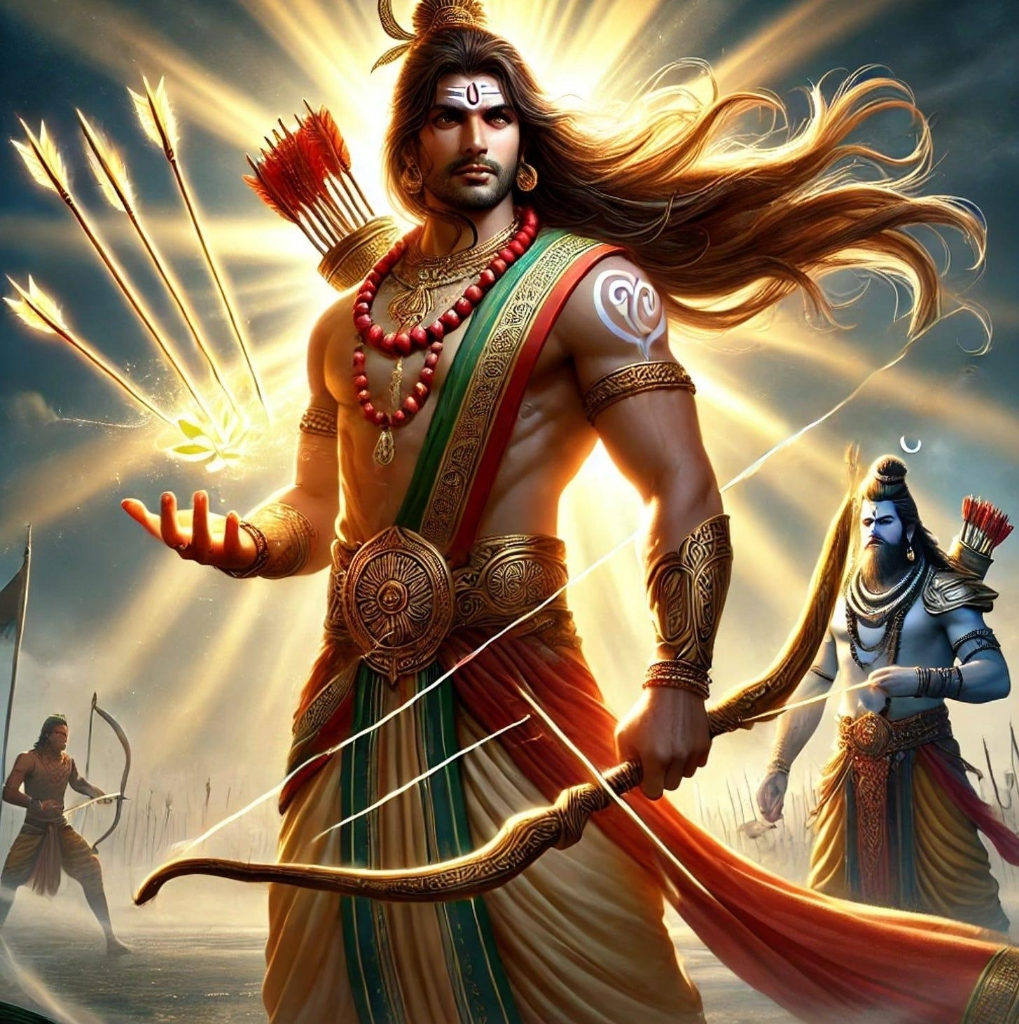
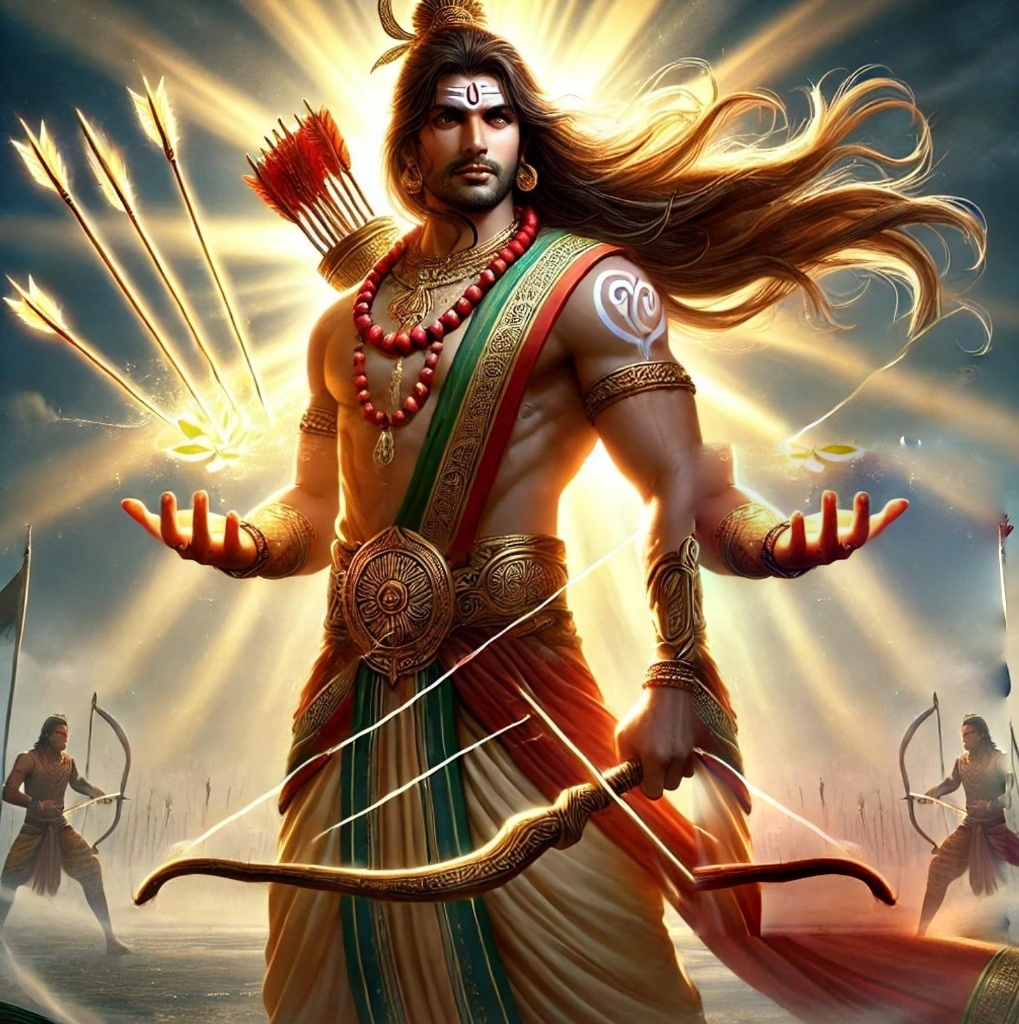
fix(barbarik): remove blue warrior, remove separate 3D chakra and arrow overlays, add cinematic foot leaf scene, fix 9:16 character framing

Changed region(s): [[0.6693, 0.4375, 1.0, 0.9375]]

diff --git a/remotion/scenes/BarbarikFull3DScene.tsx b/remotion/scenes/BarbarikFull3DScene.tsx
@@ -10,8 +10,6 @@ import {
 } from 'remotion';
 import { ThreeCanvasScene } from '../components/ThreeCanvasScene';
 import { CinematicParallaxCard } from '../components/CinematicParallaxCard';
-import { SudarshanChakra3D } from '../components/SudarshanChakra3D';
-import { TeenBaan3D } from '../components/TeenBaan3D';
 import { FloatingEmbers3D } from '../components/FloatingEmbers3D';
 import { WordTiming } from '../types';
 import * as THREE from 'three';
@@ -113,14 +111,9 @@ export const BarbarikFull3DScene: React.FC<BarbarikFull3DSceneProps> = ({
           cameraMotion="pushIn"
           isLandscape={isLandscape}
           focusPoint={{ x: 50, y: 35 }}
+          fitMode={isLandscape ? undefined : 'contain-scene'}
         >
           <ThreeCanvasScene backgroundColor="transparent" fogColor="" shadows={false}>
-            {/* Real 3D Teen Baan glowing above Barbarik's open palm */}
-            <TeenBaan3D
-              position={[isLandscape ? -0.85 : -0.72, 0.42, 0]}
-              scale={isLandscape ? 0.72 : 0.85}
-              glowIntensity={4.2}
-            />
             {/* Drifting golden embers in true 3D space */}
             <FloatingEmbers3D count={35} color="#FBBF24" />
           </ThreeCanvasScene>
@@ -134,7 +127,8 @@ export const BarbarikFull3DScene: React.FC<BarbarikFull3DSceneProps> = ({
           durationInFrames={145}
           cameraMotion="heroZoom"
           isLandscape={isLandscape}
-          focusPoint={{ x: 48, y: 28 }}
+          focusPoint={{ x: 50, y: 30 }}
+          fitMode={isLandscape ? undefined : 'contain-scene'}
         >
           <ThreeCanvasScene backgroundColor="transparent" fogColor="" shadows={false}>
             <FloatingEmbers3D count={30} color="#FDE047" speedMultiplier={1.2} />
@@ -150,9 +144,9 @@ export const BarbarikFull3DScene: React.FC<BarbarikFull3DSceneProps> = ({
           cameraMotion="craneUp"
           isLandscape={isLandscape}
           focusPoint={{ x: 50, y: 40 }}
+          fitMode={isLandscape ? 'contain-scene' : 'cover'}
         >
           <ThreeCanvasScene backgroundColor="transparent" fogColor="" shadows={false}>
-            <TeenBaan3D position={[0, 0.15, 0]} scale={1.05} glowIntensity={4.5} />
             <FloatingEmbers3D count={40} color="#FBBF24" />
           </ThreeCanvasScene>
         </CinematicParallaxCard>
@@ -165,7 +159,8 @@ export const BarbarikFull3DScene: React.FC<BarbarikFull3DSceneProps> = ({
           durationInFrames={200}
           cameraMotion="panRight"
           isLandscape={isLandscape}
-          focusPoint={{ x: 28, y: 55 }}
+          focusPoint={{ x: 50, y: 55 }}
+          fitMode={isLandscape ? undefined : 'contain-scene'}
         >
           <ThreeCanvasScene backgroundColor="transparent" fogColor="" shadows={false}>
             <FloatingEmbers3D count={25} color="#FEF08A" speedMultiplier={0.8} />
@@ -180,7 +175,8 @@ export const BarbarikFull3DScene: React.FC<BarbarikFull3DSceneProps> = ({
           durationInFrames={165}
           cameraMotion="pushIn"
           isLandscape={isLandscape}
-          focusPoint={{ x: 52, y: 35 }}
+          focusPoint={{ x: 50, y: 40 }}
+          fitMode={isLandscape ? undefined : 'contain-scene'}
         >
           <ThreeCanvasScene backgroundColor="transparent" fogColor="" shadows={false}>
             <FloatingEmbers3D count={30} color="#FBBF24" />
@@ -195,7 +191,8 @@ export const BarbarikFull3DScene: React.FC<BarbarikFull3DSceneProps> = ({
           durationInFrames={167}
           cameraMotion="craneUp"
           isLandscape={isLandscape}
-          focusPoint={{ x: 55, y: 30 }}
+          focusPoint={{ x: 50, y: 50 }}
+          fitMode={isLandscape ? undefined : 'contain-scene'}
         >
           <ThreeCanvasScene backgroundColor="transparent" fogColor="" shadows={false}>
             {/* Divine Arrow streak particles */}
@@ -206,82 +203,31 @@ export const BarbarikFull3DScene: React.FC<BarbarikFull3DSceneProps> = ({
 
       {/* SHOT 7: THE HIDDEN LEAF BENEATH KRISHNA'S FOOT (41.15 – 44.85s, 111f) */}
       <Sequence from={1235} durationInFrames={111}>
-        <div style={{ position: 'relative', width: '100%', height: '100%' }}>
-          <ThreeCanvasScene
-            backgroundColor="#0B0D18"
-            fogColor="#0B0D18"
-            fogNear={4}
-            fogFar={18}
-            shadows={true}
-          >
-            {/* Ground earth */}
-            <mesh receiveShadow position={[0, 0, 0]} rotation={[-Math.PI / 2, 0, 0]}>
-              <planeGeometry args={[20, 20]} />
-              <meshStandardMaterial color="#2B1E13" roughness={0.9} />
-            </mesh>
-
-            {/* Krishna's Lotus Foot on Ground */}
-            <group position={[0, 0.08, 0]}>
-              <mesh castShadow position={[0, 0.06, 0]}>
-                <boxGeometry args={[0.26, 0.16, 0.52]} />
-                <meshStandardMaterial color="#38BDF8" roughness={0.5} />
-              </mesh>
-              {/* Golden Anklet */}
-              <mesh position={[0, 0.14, -0.1]}>
-                <torusGeometry args={[0.14, 0.022, 8, 16]} />
-                <meshStandardMaterial color="#FBBF24" metalness={0.9} roughness={0.1} />
-              </mesh>
-            </group>
-
-            {/* The Single Green Peepal Leaf Under Foot */}
-            <mesh position={[0, 0.02, 0.18]} rotation={[-Math.PI / 2, 0, 0.15]}>
-              <planeGeometry args={[0.25, 0.36]} />
-              <meshStandardMaterial color="#16A34A" roughness={0.5} />
-            </mesh>
-
-            {/* Divine Golden Arrow Hovering & Vibrating Directly Above Foot */}
-            <group position={[0, 0.68 + Math.sin(frame * 1.5) * 0.025, 0.18]}>
-              <mesh>
-                <cylinderGeometry args={[0.016, 0.016, 0.85, 8]} />
-                <meshStandardMaterial color="#FDE047" metalness={0.9} />
-              </mesh>
-              <mesh position={[0, -0.44, 0]} rotation={[Math.PI, 0, 0]}>
-                <coneGeometry args={[0.06, 0.2, 8]} />
-                <meshStandardMaterial
-                  color="#FEF08A"
-                  emissive="#FBBF24"
-                  emissiveIntensity={5.5}
-                />
-              </mesh>
-              {/* Pulsing Shockwave Light Ring */}
-              <mesh position={[0, -0.42, 0]} rotation={[Math.PI / 2, 0, 0]}>
-                <ringGeometry args={[0.16, 0.22, 24]} />
-                <meshBasicMaterial color="#FBBF24" side={THREE.DoubleSide} />
-              </mesh>
-              <pointLight position={[0, -0.44, 0]} intensity={4.5} distance={7} color="#FBBF24" />
-            </group>
-
-            <FloatingEmbers3D count={25} color="#FBBF24" />
+        <CinematicParallaxCard
+          imageSrc={staticFile('barbarik/krishna_foot_leaf_arrow.jpg')}
+          durationInFrames={111}
+          cameraMotion="pushIn"
+          isLandscape={isLandscape}
+          focusPoint={{ x: 50, y: 50 }}
+          fitMode={isLandscape ? 'contain-scene' : 'cover'}
+        >
+          <ThreeCanvasScene backgroundColor="transparent" fogColor="" shadows={false}>
+            <FloatingEmbers3D count={35} color="#FBBF24" speedMultiplier={1.4} />
           </ThreeCanvasScene>
-        </div>
+        </CinematicParallaxCard>
       </Sequence>
 
-      {/* SHOT 8: KRISHNA'S SUDARSHAN CHAKRA & DIVINE DIALOGUE (44.85 – 53.62s, 263f) */}
+      {/* SHOT 8: KRISHNA & BARBARIK DIALOGUE (44.85 – 53.62s, 263f) */}
       <Sequence from={1346} durationInFrames={263}>
         <CinematicParallaxCard
           imageSrc={staticFile('barbarik/krishna_talk_perfect_clean.png')}
           durationInFrames={263}
           cameraMotion="pushIn"
           isLandscape={isLandscape}
-          focusPoint={{ x: 42, y: 40 }}
+          focusPoint={{ x: 50, y: 45 }}
+          fitMode={isLandscape ? undefined : 'contain-scene'}
         >
           <ThreeCanvasScene backgroundColor="transparent" fogColor="" shadows={false}>
-            {/* 🪓 SUDARSHAN CHAKRA SPINS RIGHT ABOVE KRISHNA'S RAISED HAND (NO TRISHUL!) 🪓 */}
-            <SudarshanChakra3D
-              position={[isLandscape ? -0.84 : -0.66, 0.44, 0]}
-              scale={isLandscape ? 0.65 : 0.78}
-              rotationSpeed={0.16}
-            />
             <FloatingEmbers3D count={40} color="#FBBF24" />
           </ThreeCanvasScene>
         </CinematicParallaxCard>
@@ -294,7 +240,8 @@ export const BarbarikFull3DScene: React.FC<BarbarikFull3DSceneProps> = ({
           durationInFrames={302}
           cameraMotion="pullBack"
           isLandscape={isLandscape}
-          focusPoint={{ x: 52, y: 45 }}
+          focusPoint={{ x: 50, y: 50 }}
+          fitMode={isLandscape ? undefined : 'contain-scene'}
         >
           <ThreeCanvasScene backgroundColor="transparent" fogColor="" shadows={false}>
             <FloatingEmbers3D count={45} color="#FBBF24" speedMultiplier={0.9} />
@@ -307,9 +254,10 @@ export const BarbarikFull3DScene: React.FC<BarbarikFull3DSceneProps> = ({
         <CinematicParallaxCard
           imageSrc={staticFile('barbarik/khatu_shyam_divine.png')}
           durationInFrames={193}
-          cameraMotion="craneUp"
+          cameraMotion="heroZoom"
           isLandscape={isLandscape}
-          focusPoint={{ x: 50, y: 35 }}
+          focusPoint={{ x: 50, y: 40 }}
+          fitMode={isLandscape ? undefined : 'contain-scene'}
         >
           <ThreeCanvasScene backgroundColor="transparent" fogColor="" shadows={false}>
             <FloatingEmbers3D count={50} color="#FEF08A" speedMultiplier={1.1} />

diff --git a/remotion/components/CinematicParallaxCard.tsx b/remotion/components/CinematicParallaxCard.tsx
@@ -9,6 +9,7 @@ export interface CinematicParallaxCardProps {
   children?: React.ReactNode;
   vignetteIntensity?: number;
   focusPoint?: { x: number; y: number }; // 0..100 %
+  fitMode?: 'cover' | 'contain-scene';
 }
 
 export const CinematicParallaxCard: React.FC<CinematicParallaxCardProps> = ({
@@ -19,6 +20,7 @@ export const CinematicParallaxCard: React.FC<CinematicParallaxCardProps> = ({
   children,
   vignetteIntensity = 0.45,
   focusPoint = { x: 50, y: 50 },
+  fitMode,
 }) => {
   const frame = useCurrentFrame();
   const progress = Math.min(1, Math.max(0, frame / Math.max(1, durationInFrames)));
@@ -27,12 +29,16 @@ export const CinematicParallaxCard: React.FC<CinematicParallaxCardProps> = ({
   const ease = 0.5 - 0.5 * Math.cos(progress * Math.PI);
 
   // Natural human handheld breathing motion (subtle eye-level float)
-  const breatheY = Math.sin(frame * 0.08) * 4;
-  const breatheX = Math.cos(frame * 0.06) * 3;
+  const breatheY = Math.sin(frame * 0.08) * 3;
+  const breatheX = Math.cos(frame * 0.06) * 2.5;
+
+  // Determine whether this shot in 9:16 portrait should use dual-layer staging
+  // so wide scene characters are fully visible inside the frame.
+  const useDualLayer = !isLandscape && fitMode === 'contain-scene';
 
   // Dynamic 3D Camera Pan & Zoom Calculations
-  let startScale = 1.08;
-  let endScale = 1.22;
+  let startScale = 1.05;
+  let endScale = 1.16;
   let startX = 0;
   let endX = 0;
   let startY = 0;
@@ -41,53 +47,53 @@ export const CinematicParallaxCard: React.FC<CinematicParallaxCardProps> = ({
   let rotateY = 0;
 
   if (cameraMotion === 'pushIn') {
-    startScale = 1.08;
-    endScale = 1.25;
-    startX = (focusPoint.x - 50) * -0.2;
-    endX = (focusPoint.x - 50) * -0.45;
-    startY = (focusPoint.y - 50) * -0.15;
-    endY = (focusPoint.y - 50) * -0.35;
-    rotateX = interpolate(ease, [0, 1], [-1.2, 1.2]);
+    startScale = 1.04;
+    endScale = 1.16;
+    startX = (focusPoint.x - 50) * -0.15;
+    endX = (focusPoint.x - 50) * -0.3;
+    startY = (focusPoint.y - 50) * -0.1;
+    endY = (focusPoint.y - 50) * -0.22;
+    rotateX = interpolate(ease, [0, 1], [-1.0, 1.0]);
   } else if (cameraMotion === 'pullBack') {
-    startScale = 1.24;
-    endScale = 1.08;
-    startX = 15;
-    endX = -10;
-    startY = 8;
+    startScale = 1.16;
+    endScale = 1.04;
+    startX = 10;
+    endX = -8;
+    startY = 6;
     endY = 0;
-    rotateX = interpolate(ease, [0, 1], [1.0, -0.8]);
+    rotateX = interpolate(ease, [0, 1], [0.8, -0.6]);
   } else if (cameraMotion === 'panRight') {
-    startScale = 1.18;
-    endScale = 1.18;
-    startX = -45;
-    endX = 40;
+    startScale = 1.08;
+    endScale = 1.08;
+    startX = -25;
+    endX = 25;
     startY = 0;
-    endY = -6;
-    rotateY = interpolate(ease, [0, 1], [-2.0, 2.0]);
+    endY = -4;
+    rotateY = interpolate(ease, [0, 1], [-1.5, 1.5]);
   } else if (cameraMotion === 'panLeft') {
-    startScale = 1.18;
-    endScale = 1.18;
-    startX = 45;
-    endX = -40;
+    startScale = 1.08;
+    endScale = 1.08;
+    startX = 25;
+    endX = -25;
     startY = 0;
-    endY = 6;
-    rotateY = interpolate(ease, [0, 1], [2.0, -2.0]);
+    endY = 4;
+    rotateY = interpolate(ease, [0, 1], [1.5, -1.5]);
   } else if (cameraMotion === 'craneUp') {
-    startScale = 1.12;
-    endScale = 1.24;
+    startScale = 1.06;
+    endScale = 1.16;
     startX = 0;
     endX = 0;
-    startY = 40;
-    endY = -35;
-    rotateX = interpolate(ease, [0, 1], [-2.5, 1.5]);
-  } else if (cameraMotion === 'heroZoom') {
-    startScale = 1.10;
-    endScale = 1.30;
-    startX = (focusPoint.x - 50) * -0.3;
-    endX = (focusPoint.x - 50) * -0.6;
-    startY = (focusPoint.y - 50) * -0.2;
-    endY = (focusPoint.y - 50) * -0.45;
+    startY = 25;
+    endY = -20;
     rotateX = interpolate(ease, [0, 1], [-1.8, 1.0]);
+  } else if (cameraMotion === 'heroZoom') {
+    startScale = 1.05;
+    endScale = 1.20;
+    startX = (focusPoint.x - 50) * -0.2;
+    endX = (focusPoint.x - 50) * -0.4;
+    startY = (focusPoint.y - 50) * -0.15;
+    endY = (focusPoint.y - 50) * -0.3;
+    rotateX = interpolate(ease, [0, 1], [-1.2, 0.8]);
   }
 
   const currentScale = startScale + (endScale - startScale) * ease;
@@ -105,11 +111,33 @@ export const CinematicParallaxCard: React.FC<CinematicParallaxCardProps> = ({
         perspective: '1200px',
       }}
     >
-      {/* ══════════ 1. MULTI-PLANE 3D PARALLAX IMAGE ══════════ */}
+      {/* ══════════ 1. ATMOSPHERIC BACKDROP LAYER (FOR DUAL-LAYER 9:16) ══════════ */}
+      {useDualLayer && (
+        <div
+          style={{
+            position: 'absolute',
+            inset: -40,
+            transform: `scale(${currentScale * 1.08}) translate3d(${currentX * 0.3}px, ${currentY * 0.3}px, 0)`,
+            filter: 'blur(36px) brightness(0.36) saturate(1.2)',
+            pointerEvents: 'none',
+          }}
+        >
+          <Img
+            src={imageSrc}
+            style={{
+              width: '100%',
+              height: '100%',
+              objectFit: 'cover',
+            }}
+          />
+        </div>
+      )}
+
+      {/* ══════════ 2. MULTI-PLANE 3D PARALLAX IMAGE ══════════ */}
       <div
         style={{
           position: 'absolute',
-          inset: -40, // Bleed margins to prevent edge clipping during camera pans
+          inset: useDualLayer ? 0 : -30,
           transform: `translate3d(${currentX}px, ${currentY}px, 0px) scale(${currentScale}) rotateX(${rotateX}deg) rotateY(${rotateY}deg)`,
           transformOrigin: `${focusPoint.x}% ${focusPoint.y}%`,
           transition: 'transform 0.05s linear',
@@ -122,15 +150,22 @@ export const CinematicParallaxCard: React.FC<CinematicParallaxCardProps> = ({
           src={imageSrc}
           style={{
             width: '100%',
-            height: '100%',
-            objectFit: isLandscape ? 'contain' : 'cover',
+            height: useDualLayer ? 'auto' : '100%',
+            maxHeight: useDualLayer ? '72%' : '100%',
+            objectFit: isLandscape ? 'contain' : useDualLayer ? 'contain' : 'cover',
             objectPosition: `${focusPoint.x}% ${focusPoint.y}%`,
             filter: 'contrast(1.06) saturate(1.1) brightness(1.02)',
+            maskImage: useDualLayer
+              ? 'linear-gradient(to bottom, transparent 0%, black 8%, black 92%, transparent 100%)'
+              : undefined,
+            WebkitMaskImage: useDualLayer
+              ? 'linear-gradient(to bottom, transparent 0%, black 8%, black 92%, transparent 100%)'
+              : undefined,
           }}
         />
       </div>
 
-      {/* ══════════ 2. CINEMATIC LIGHTING & VIGNETTE ══════════ */}
+      {/* ══════════ 3. CINEMATIC LIGHTING & VIGNETTE ══════════ */}
       <div
         style={{
           position: 'absolute',
@@ -153,7 +188,7 @@ export const CinematicParallaxCard: React.FC<CinematicParallaxCardProps> = ({
         }}
       />
 
-      {/* ══════════ 3. INTERACTIVE 3D WEBGL OVERLAYS ══════════ */}
+      {/* ══════════ 4. INTERACTIVE 3D WEBGL OVERLAYS ══════════ */}
       {children && (
         <div
           style={{
